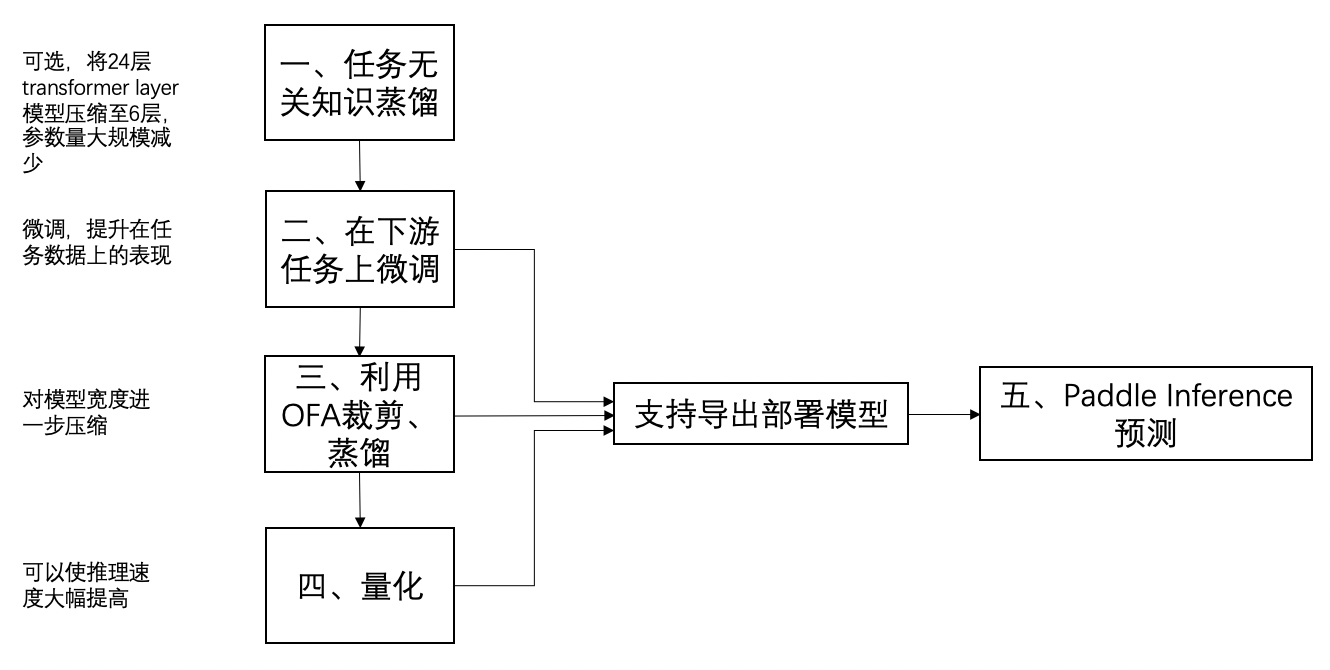
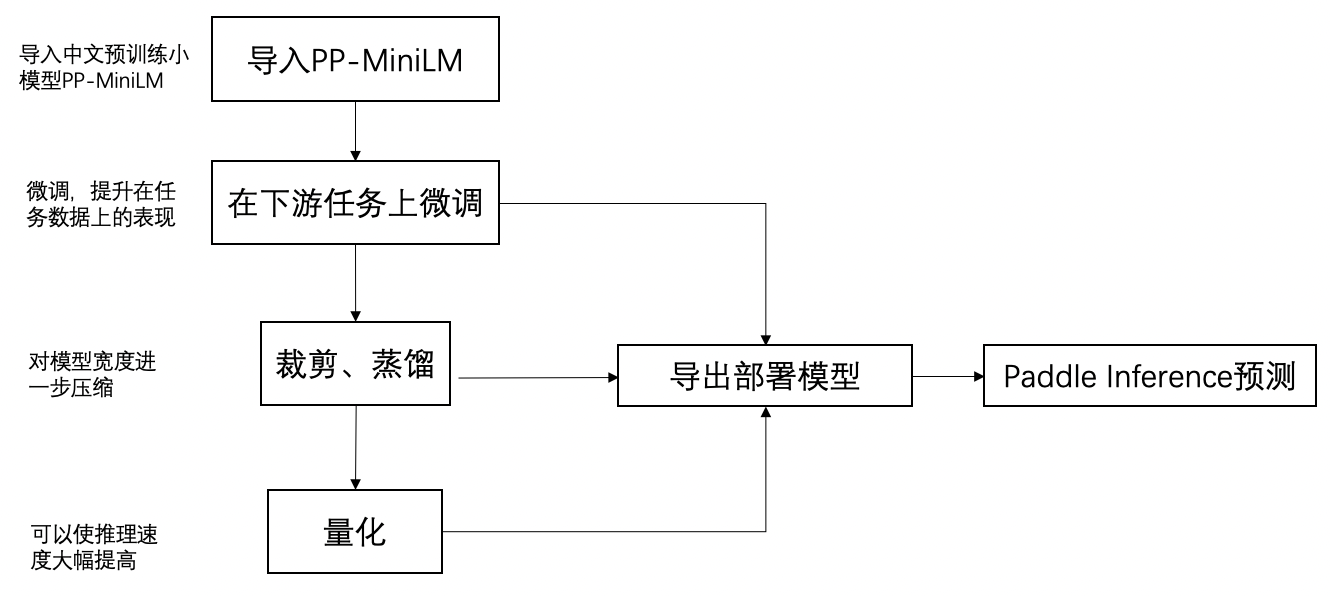
update reamde
update reamde

update readme

update reamde

update readme

diff --git a/paddlenlp/transformers/ernie/modeling.py b/paddlenlp/transformers/ernie/modeling.py
@@ -168,6 +168,20 @@ class ErniePretrainedModel(PretrainedModel):
             "vocab_size": 30522,
             "pad_token_id": 0,
         },
+        "ppminilm-6l-768h": {
+            "attention_probs_dropout_prob": 0.1,
+            "intermediate_size": 3072,
+            "hidden_act": "relu",
+            "hidden_dropout_prob": 0.1,
+            "hidden_size": 768,
+            "initializer_range": 0.02,
+            "max_position_embeddings": 512,
+            "num_attention_heads": 12,
+            "num_hidden_layers": 6,
+            "type_vocab_size": 4,
+            "vocab_size": 21128,
+            "pad_token_id": 0,
+        },
     }
     resource_files_names = {"model_state": "model_state.pdparams"}
     pretrained_resource_files_map = {
@@ -182,6 +196,8 @@ class ErniePretrainedModel(PretrainedModel):
             "https://bj.bcebos.com/paddlenlp/models/transformers/ernie_v2_base/ernie_v2_eng_base_finetuned_squad.pdparams",
             "ernie-2.0-large-en":
             "https://bj.bcebos.com/paddlenlp/models/transformers/ernie_v2_large/ernie_v2_eng_large.pdparams",
+            "ppminilm-6l-768h":
+            "https://bj.bcebos.com/paddlenlp/models/transformers/ppminilm-6l-768h/ppminilm-6l-768h.pdparams",
         }
     }
     base_model_prefix = "ernie"

diff --git a/paddlenlp/transformers/ernie/tokenizer.py b/paddlenlp/transformers/ernie/tokenizer.py
@@ -93,6 +93,8 @@ class ErnieTokenizer(PretrainedTokenizer):
             "https://bj.bcebos.com/paddlenlp/models/transformers/ernie-gen-large/vocab.txt",
             "ernie-gen-large-430g-en":
             "https://bj.bcebos.com/paddlenlp/models/transformers/ernie-gen-large-430g/vocab.txt",
+            "ppminilm-6l-768h":
+            "https://bj.bcebos.com/paddlenlp/models/transformers/ppminilm-6l-768h/vocab.txt",
         }
     }
     pretrained_init_configuration = {
@@ -118,6 +120,9 @@ class ErnieTokenizer(PretrainedTokenizer):
             "do_lower_case": True
         },
         "ernie-gen-large-430g-en": {
+            "do_lower_case": True
+        },
+        "ppminilm-6l-768h": {
             "do_lower_case": True
         },
     }
